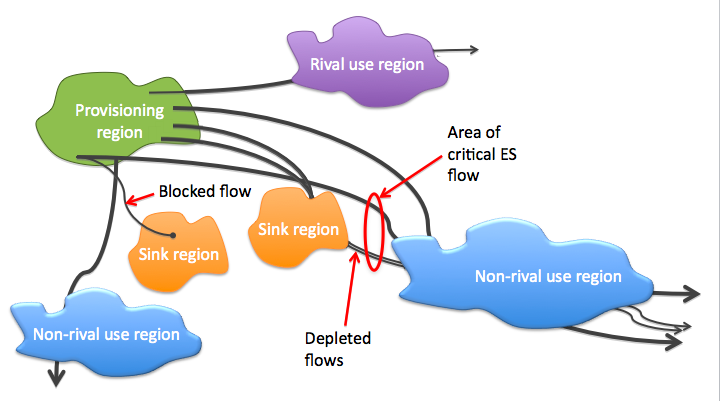
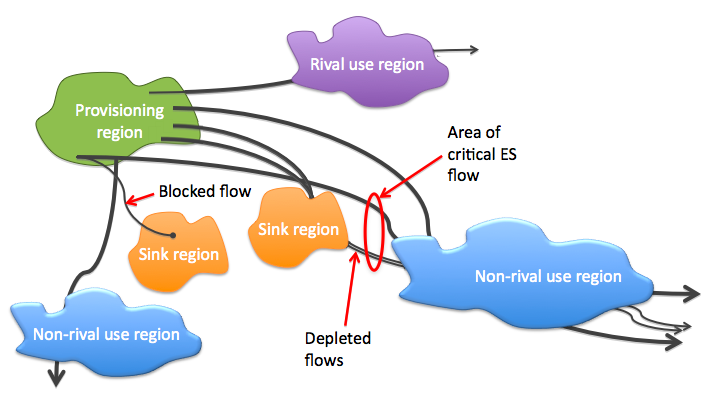
Various image fixes on Ken's behalf.

diff --git a/stylesheets/master.css b/stylesheets/master.css
@@ -571,6 +571,11 @@ a.launch-button:hover {
    padding:5px;
 }
 
+#about-content img {
+   width:550px;
+   margin-left:35px;
+}
+
 #about-consortium p {
    border:0px solid orange;
    float:left;
